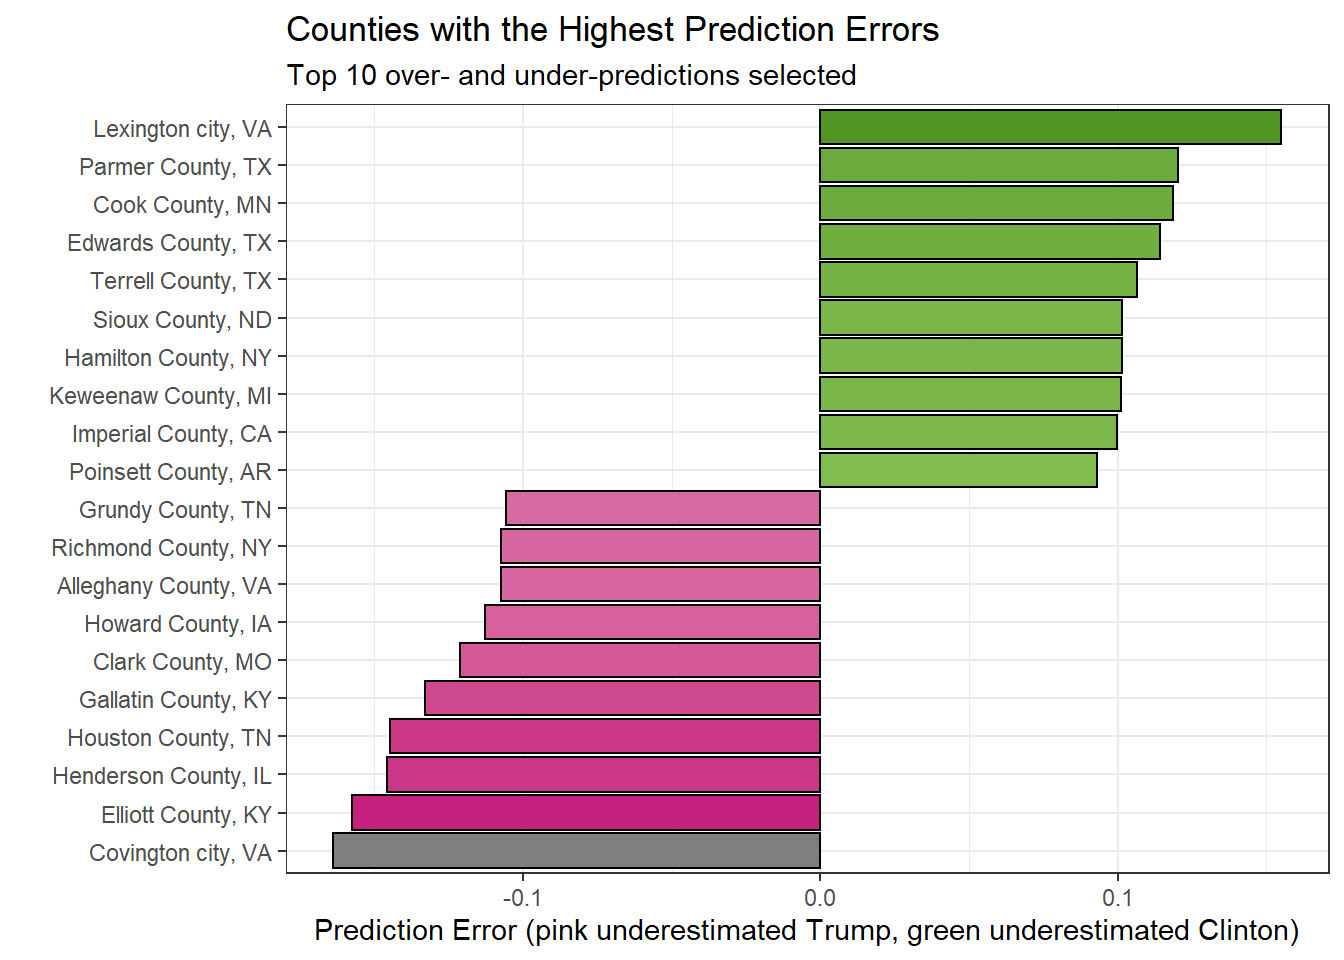
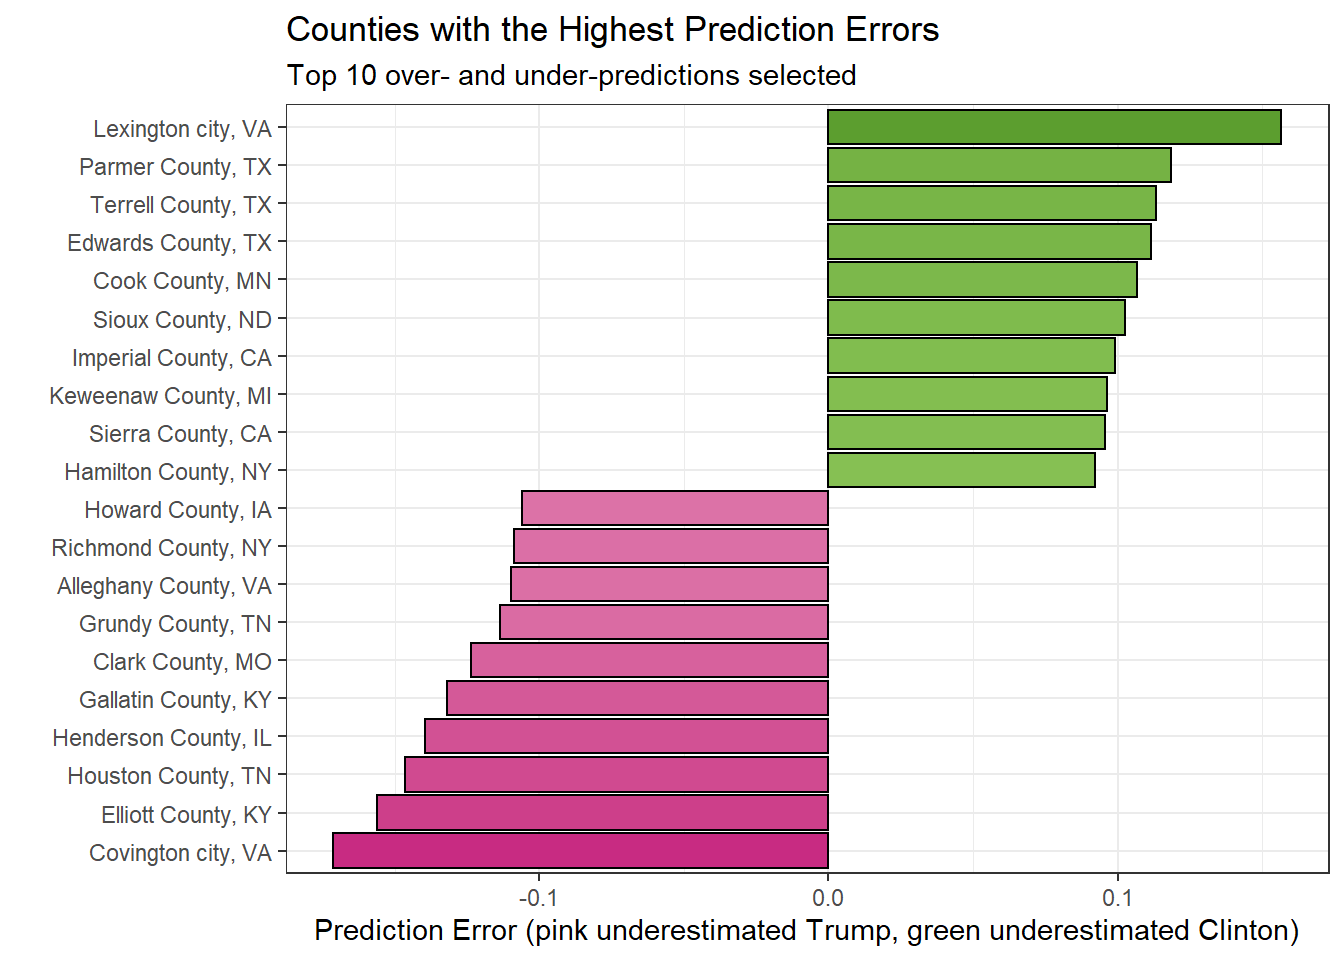
fixed election analysis bugs

diff --git a/post/iterating-on-a-2016-election-analysis/index.html b/post/iterating-on-a-2016-election-analysis/index.html
@@ -302,7 +302,8 @@ results_and_pop_density$resid_model1 &lt;- resid(model1)</code></pre>
 model2 &lt;- glm(cbind(votes_dem, votes_gop) ~ I(log(population_density))+
                 I(log(inc))+edu_pct + state_abbr + I(log1p(two_party_2012)),
               data = results_pop_census,
-              family = &#39;binomial&#39;)
+              family = &#39;binomial&#39;,
+              na.action = na.exclude)
 # extract residuals
 results_pop_census$resid_model2 &lt;- resid(model2, type = &#39;response&#39;)
 # join up to geographic data
@@ -327,9 +328,9 @@ results_pop_census_map &lt;- county_map_with_fips %&gt;%
     ggplot(aes(reorder(paste0(county_name, &#39;, &#39;, state_abbr), resid_model2), resid_model2))+
     geom_col(aes(fill = resid_model2), colour = &#39;black&#39;)+
     coord_flip()+
-    scale_fill_gradientn(values = rescale(c(-.16, -.05, -.02, 0, .02, .05, .16)),
+    scale_fill_gradientn(values = rescale(c(-.18, -.05, -.02, 0, .02, .05, .18)),
                          colours = brewer_pal(palette = &#39;PiYG&#39;)(7),
-                         limits = c(-.16, .16),
+                         limits = c(-.18, .18),
                          name = &#39;Prediction Error (pink underestimates Trump, green underestimates Clinton)&#39;)+
     theme(legend.position = &#39;none&#39;)+
     xlab(&#39;&#39;)+
